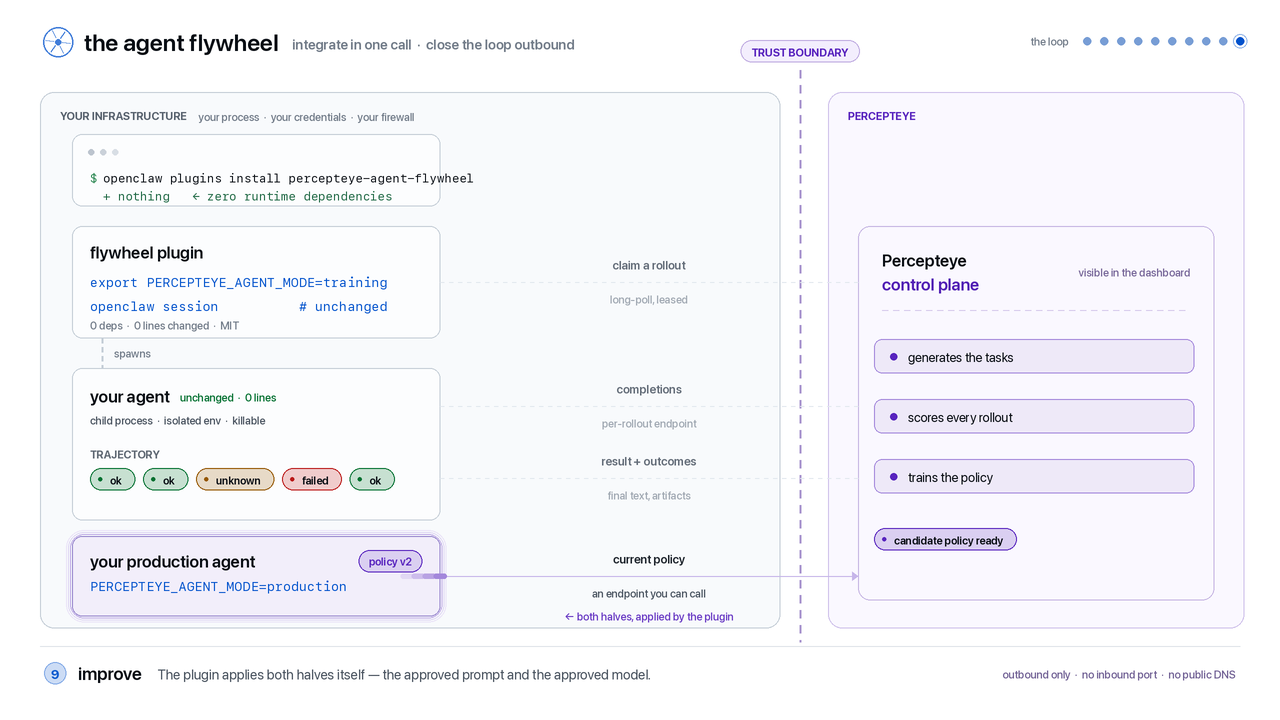
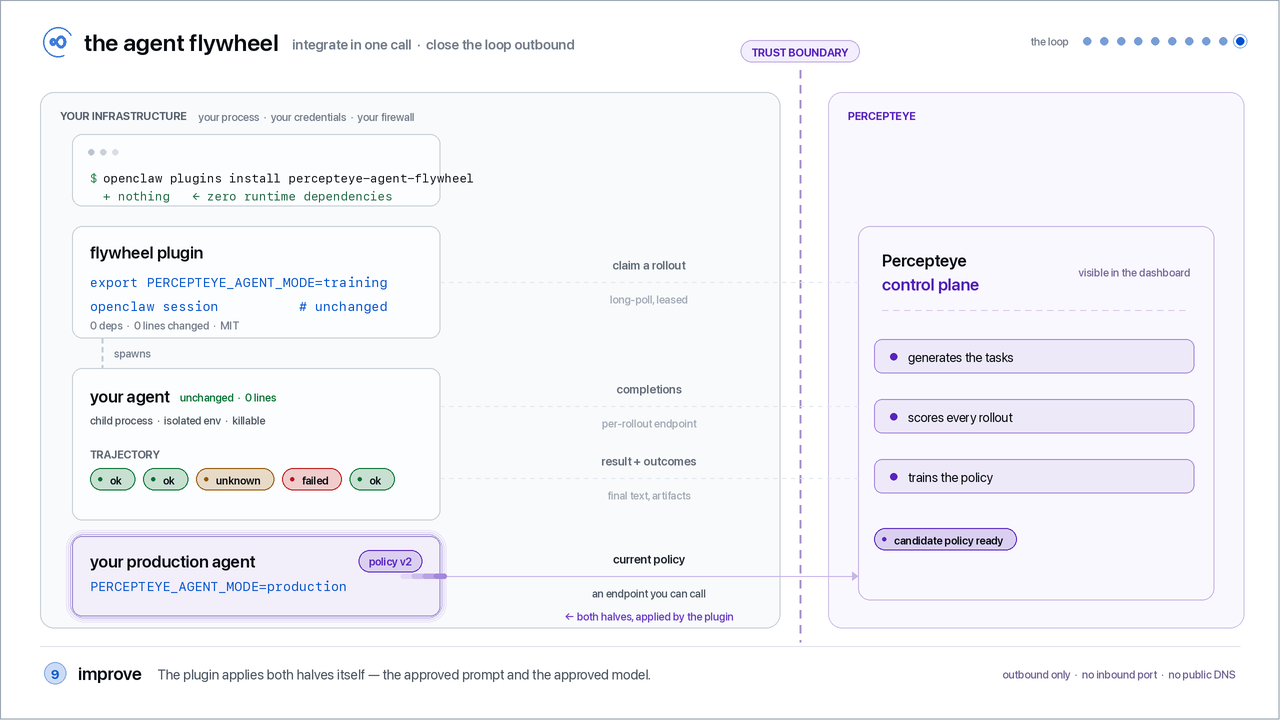
One flywheel in the figures too, a border, and plainer words
THE CARTWHEEL CAME BACK. The figures drew their own spoked-wheel logo beside
"the agent flywheel" while the README title carries the asymmetric infinity, so
the page showed two different marks and the figure quietly disowned the wordmark
above it. Both renderers now draw the SAME mark — the same Bernoulli lemniscate
with uniformly scaled lobes, small lobe first, inside the same gapped ring.

A BORDER. These sit inline on a white README page, and a white-grounded figure
with no edge reads as floating text rather than as a figure. Drawn on the
supersampled canvas before the resize so it lands as a crisp hairline rather
than a soft grey smear, and through a theme token so the dark theme gets an edge
that suits its own ground.

"CONTRIBUTES CAPACITY" IS GONE. It is the sort of phrase that is precise to
whoever wrote it and opaque to the developer reading it — and it had spread to
ten places across both packages, including the refusal a developer sees when
they typo the mode. Everywhere it now says "does training work: it claims
rollouts and runs them", which is the same fact in words that need no gloss.

The refusal text is byte-identical to the Node SDK's again — one switch, one
sentence, in whichever package the customer installed.

749 tests, 0 skips; ruff clean.

Changed region(s): [[0.0, 0.9778, 1.0, 1.0], [0.0312, 0.0306, 0.0625, 0.0917]]

diff --git a/docs/assets/render_flywheel_loop.py b/docs/assets/render_flywheel_loop.py
@@ -114,7 +114,7 @@ _DARK = dict(
     CODE=(126, 176, 226), OKTXT=(94, 160, 110), LBL=(102, 110, 122),
     CHIP_ON=(214, 196, 248),
     PF_FILL=(26, 24, 40), PF_EDGE=(96, 76, 132), PF_TITLE=(186, 156, 240),
-    PF_RULE=(66, 56, 88), PF_SUB=(108, 92, 140),
+    PF_RULE=(66, 56, 88), PF_SUB=(108, 92, 140), FRAME_EDGE=(56, 63, 72),
     PF_ROW=(56, 50, 74), PF_ROWTX=(96, 92, 112), PF_CHIPBG=(26, 24, 40),
     RAIL=(60, 66, 75), FOOT=(128, 110, 160), HRULE=(26, 31, 38),
 )
@@ -134,7 +134,7 @@ _LIGHT = dict(
     CODE=(0, 82, 204), OKTXT=(2, 112, 48), LBL=(96, 105, 116),
     CHIP_ON=(88, 36, 190),
     PF_FILL=(250, 248, 255), PF_EDGE=(196, 180, 226), PF_TITLE=(80, 30, 180),
-    PF_RULE=(214, 202, 236), PF_SUB=(118, 102, 152),
+    PF_RULE=(214, 202, 236), PF_SUB=(118, 102, 152), FRAME_EDGE=(154, 165, 177),
     PF_ROW=(226, 216, 244), PF_ROWTX=(112, 120, 132), PF_CHIPBG=(246, 242, 254),
     RAIL=(176, 184, 194), FOOT=(112, 96, 148), HRULE=(222, 227, 233),
 )
@@ -175,6 +175,7 @@ PF_EDGE = _T['PF_EDGE']
 PF_TITLE = _T['PF_TITLE']
 PF_RULE = _T['PF_RULE']
 PF_SUB = _T['PF_SUB']
+FRAME_EDGE = _T['FRAME_EDGE']
 PF_ROW = _T['PF_ROW']
 PF_ROWTX = _T['PF_ROWTX']
 PF_CHIPBG = _T['PF_CHIPBG']
@@ -380,16 +381,35 @@ def pill(d, x, y, label, f, color, on: float, base=CARD, pad=11, hgt=22, dot=Tru
 
 
 def flywheel_icon(d, cx, cy, r, angle, color, spokes=6):
-    d.ellipse(S((cx - r, cy - r, cx + r, cy + r)), outline=color,
-              width=max(1, int(1.6 * SS)))
-    for i in range(spokes):
-        a = angle + i * (2 * math.pi / spokes)
-        d.line([S(cx + math.cos(a) * r * 0.30), S(cy + math.sin(a) * r * 0.30),
-                S(cx + math.cos(a) * r * 0.82), S(cy + math.sin(a) * r * 0.82)],
-               fill=color, width=max(1, int(1.4 * SS)))
-    d.ellipse(S((cx - r * 0.20, cy - r * 0.20, cx + r * 0.20, cy + r * 0.20)),
-              fill=color)
+    """THE PRODUCT'S MARK, and it must be the SAME mark as the README title.
 
+    This used to be a spoked cartwheel. The title beside it carries an
+    asymmetric infinity inside a turning wheel, so the page showed two different
+    flywheels and the figure quietly disowned the wordmark above it.
+
+    Same geometry as docs/assets/render_spinner.py: a Bernoulli lemniscate whose
+    lobes are UNIFORMLY scaled, small lobe first. Uniform per-lobe scaling is
+    what keeps the crossing tangents intact -- two ovals rotated about a shared
+    point cannot make an infinity, they make two kissing circles. The `spokes`
+    argument is kept so the call sites do not change; it is unused.
+    """
+    ratio, yscale = 0.52, 1.60
+    # the wheel: an arc with a gap, so rotation is visible at all
+    deg = math.degrees(angle) % 360.0
+    d.arc(S((cx - r, cy - r, cx + r, cy + r)), deg, deg + 268.0,
+          fill=color, width=max(1, int(1.7 * SS)))
+    # the loop, drawn as overlapping discs -- round joins for free at this size
+    a = r * 0.60
+    off = (1.0 - ratio) / 2.0 * a
+    rr = r * 0.085
+    for i in range(180):
+        s = i / 180.0
+        tt = s * 2.0 * math.pi + math.pi          # start on the SMALL lobe
+        dd = 1.0 + math.sin(tt) ** 2
+        x, y = math.cos(tt) / dd, math.sin(tt) * math.cos(tt) / dd
+        k = 1.0 if x >= 0 else ratio
+        px, py = cx + x * k * a - off, cy + y * k * yscale * a
+        d.ellipse(S((px - rr, py - rr, px + rr, py + rr)), fill=color)
 
 def glow(d, box, color, a, radius=12, rings=3):
     """A soft focus ring around a card. Cheap, and reads as attention."""
@@ -790,6 +810,13 @@ def draw_frame(i: int) -> Image.Image:
     text(d, (cnx + 34 + tw(verb, F_CAP) + 16, 674), cap, F_CAPSUB,
          mix(BG, MUTED, seam * intro), anchor="lm")
 
+    # A BORDER, because these sit inline on a white README page and a
+    # white-grounded figure with no edge reads as floating text rather than as a
+    # figure. Drawn on the SUPERSAMPLED canvas before the resize so it lands as
+    # a crisp hairline instead of a soft grey smear, and in a token so the dark
+    # theme gets an edge that suits its own ground.
+    d.rectangle(S((0, 0, W - 1, H - 1)), outline=FRAME_EDGE,
+                width=max(1, int(1.0 * SS)))
     return img.resize((W, H), Image.LANCZOS)
 
 

diff --git a/docs/assets/render_overview.py b/docs/assets/render_overview.py
@@ -122,6 +122,7 @@ _DARK = dict(
     PF_TITLE=(186, 156, 240),
     PF_RULE=(66, 56, 88),
     PF_SUB=(108, 92, 140),
+    FRAME_EDGE=(56, 63, 72),
     PF_ROW=(56, 50, 74),
     PF_ROWTX=(96, 92, 112),
     CHIP_ON=(214, 196, 248),
@@ -162,6 +163,7 @@ _LIGHT = dict(
     PF_TITLE=(80, 30, 180),
     PF_RULE=(214, 202, 236),
     PF_SUB=(118, 102, 152),
+    FRAME_EDGE=(154, 165, 177),
     PF_ROW=(226, 216, 244),
     PF_ROWTX=(112, 120, 132),
     CHIP_ON=(88, 36, 190),
@@ -210,6 +212,7 @@ PF_EDGE = _T['PF_EDGE']
 PF_TITLE = _T['PF_TITLE']
 PF_RULE = _T['PF_RULE']
 PF_SUB = _T['PF_SUB']
+FRAME_EDGE = _T['FRAME_EDGE']
 PF_ROW = _T['PF_ROW']
 PF_ROWTX = _T['PF_ROWTX']
 CHIP_ON = _T['CHIP_ON']
@@ -388,16 +391,36 @@ def packet(d, x, y, c, w=18, h=7, a=1.0, trail=3):
 
 
 def wheel(d, cx, cy, r, ang, c, spokes=6):
-    d.ellipse(S((cx - r, cy - r, cx + r, cy + r)), outline=c, width=max(1, int(1.6 * SS)))
-    for i in range(spokes):
-        a = ang + i * (2 * math.pi / spokes)
-        d.line([S(cx + math.cos(a) * r * .30), S(cy + math.sin(a) * r * .30),
-                S(cx + math.cos(a) * r * .82), S(cy + math.sin(a) * r * .82)],
-               fill=c, width=max(1, int(1.4 * SS)))
-    d.ellipse(S((cx - r * .2, cy - r * .2, cx + r * .2, cy + r * .2)), fill=c)
+    """THE PRODUCT'S MARK, and it must be the SAME mark as the README title.
 
+    This used to be a spoked cartwheel. The title beside it carries an
+    asymmetric infinity inside a turning wheel, so the page showed two different
+    flywheels and the figure quietly disowned the wordmark above it.
 
-# ── the frame ────────────────────────────────────────────────────────────────
+    Same geometry as docs/assets/render_spinner.py: a Bernoulli lemniscate whose
+    lobes are UNIFORMLY scaled, small lobe first. Uniform per-lobe scaling is
+    what keeps the crossing tangents intact -- two ovals rotated about a shared
+    point cannot make an infinity, they make two kissing circles. The `spokes`
+    argument is kept so the call sites do not change; it is unused.
+    """
+    ratio, yscale = 0.52, 1.60
+    # the wheel: an arc with a gap, so rotation is visible at all
+    deg = math.degrees(ang) % 360.0
+    d.arc(S((cx - r, cy - r, cx + r, cy + r)), deg, deg + 268.0,
+          fill=c, width=max(1, int(1.7 * SS)))
+    # the loop, drawn as overlapping discs -- round joins for free at this size
+    a = r * 0.60
+    off = (1.0 - ratio) / 2.0 * a
+    rr = r * 0.085
+    for i in range(180):
+        s = i / 180.0
+        tt = s * 2.0 * math.pi + math.pi          # start on the SMALL lobe
+        dd = 1.0 + math.sin(tt) ** 2
+        x, y = math.cos(tt) / dd, math.sin(tt) * math.cos(tt) / dd
+        k = 1.0 if x >= 0 else ratio
+        px, py = cx + x * k * a - off, cy + y * k * yscale * a
+        d.ellipse(S((px - rr, py - rr, px + rr, py + rr)), fill=c)
+
 def draw_frame(i):
     t = i / FPS
     img = Image.new("RGB", (W * SS, H * SS), BG)
@@ -621,6 +644,13 @@ def draw_frame(i):
         text(d, (W - 44, 658), "outbound only  ·  no inbound port  ·  no GPU",
              F_TINY, fade(FOOT, a_bd), anchor="rm")
 
+    # A BORDER, because these sit inline on a white README page and a
+    # white-grounded figure with no edge reads as floating text rather than as a
+    # figure. Drawn on the SUPERSAMPLED canvas before the resize so it lands as
+    # a crisp hairline instead of a soft grey smear, and in a token so the dark
+    # theme gets an edge that suits its own ground.
+    d.rectangle(S((0, 0, W - 1, H - 1)), outline=FRAME_EDGE,
+                width=max(1, int(1.0 * SS)))
     return img.resize((W, H), Image.LANCZOS)
 
 

diff --git a/tests/test_attach_production_capture.py b/tests/test_attach_production_capture.py
@@ -1,6 +1,6 @@
 """``attach()`` — capture in the process that serves users.
 
-``serve()`` contributes capacity. ``attach()`` contributes evidence, from turns the
+``serve()`` does training work. ``attach()`` records what your agent already did, from turns the
 customer's agent is already serving. Same adapters, same tri-state, same
 trajectory file — and, critically, NO rerouting: pointing production traffic at
 a new endpoint is ``apply_current_policy``'s job and the customer's decision.

diff --git a/src/percepteye_agent_flywheel/__init__.py b/src/percepteye_agent_flywheel/__init__.py
@@ -202,7 +202,7 @@ def _mode_from(raw: Any, *, source: str) -> str:
     if key not in _MODE_ALIASES:
         raise ConfigurationError(
             f"{source}{raw!r} is not a mode. Use 'training' (this process "
-            f"contributes capacity: it claims rollouts and runs them) or "
+            f"does training work: it claims rollouts and runs them) or "
             f"'production' (it does not). Recognised spellings: "
             f"{', '.join(sorted(_MODE_ALIASES))}."
         )

diff --git a/website/docs/production.md b/website/docs/production.md
@@ -1,6 +1,6 @@
 # Production
 
-Your production agent is a **different process** from the one that contributes capacity. [`serve()`](quickstart.md) claims rollouts and runs them in child processes. This page is about the process that serves your users, and it does three things: picks up the model training produced, picks up the prompt training produced, and — optionally — contributes evidence from the turns it is already serving.
+Your production agent is a **different process** from the one that does training work. [`serve()`](quickstart.md) claims rollouts and runs them in child processes. This page is about the process that serves your users, and it does three things: picks up the model training produced, picks up the prompt training produced, and — optionally — contributes evidence from the turns it is already serving.
 
 None of it requires a redeploy of your agent's code, and none of it opens an inbound port.
 
@@ -175,7 +175,7 @@ The contract is a **pair**: this prompt was approved against that checkpoint, an
 
 ## `attach()` — evidence from live turns
 
-`serve()` contributes capacity. `attach()` contributes evidence, from turns you are already serving — same [adapters](python.md), same tri-state [outcomes](outcomes.md), same trajectory format, same absence contract, scoped around a live user turn instead of a claimed rollout.
+`serve()` does training work. `attach()` records what your agent already did, from turns you are already serving — same [adapters](python.md), same tri-state [outcomes](outcomes.md), same trajectory format, same absence contract, scoped around a live user turn instead of a claimed rollout.
 
 ```python
 px = fw.attach(agent_id="support-agent", trajectory_root="/var/lib/percepteye")
@@ -222,7 +222,7 @@ They are separate calls because the answer does not exist yet when the turn open
 
 `record_tool_call()` works inside a turn exactly as it does inside a rollout. With the `otel` extra installed, a turn's span carries `percepteye.turn.id` rather than `percepteye.rollout.id`, so your own telemetry can tell the two apart too.
 
-**`PERCEPTEYE_AGENT_MODE` does not gate `attach()`.** That switch gates `serve()`, the surface that contributes capacity. `attach()` *is* the production surface, and gating it on the same variable would mean the correct setting for a production agent was `PERCEPTEYE_AGENT_MODE=training`. To stop capture, don't call `attach()`, or pass `register=False` to keep it entirely local. See [Configuration](configuration.md).
+**`PERCEPTEYE_AGENT_MODE` does not gate `attach()`.** That switch gates `serve()`, the call that does training work. `attach()` *is* the production surface, and gating it on the same variable would mean the correct setting for a production agent was `PERCEPTEYE_AGENT_MODE=training`. To stop capture, don't call `attach()`, or pass `register=False` to keep it entirely local. See [Configuration](configuration.md).
 
 **What it ships, and when.** `flywheel/1` gained `POST /turns`, so captured turns
 are uploaded — subject to one gate and one cadence.

diff --git a/README.md b/README.md
@@ -104,7 +104,7 @@ Beat ⓪ is why you never write a task list. Tasks come from **the tool surface 
 
 ## 🎚 Two modes, one image
 
-One variable decides whether a deployment contributes capacity. The same container does either, with no code edit.
+One variable decides whether a deployment does training work. The same container does either, with no code edit.
 
 ```bash
 PERCEPTEYE_AGENT_MODE=training      # the default when unset
@@ -121,7 +121,7 @@ PERCEPTEYE_AGENT_MODE=production
 `production` restores the endpoint value *you* had, not a default we picked — read once, before we ever write to your config, and kept across upgrades. An unrecognised value **raises** rather than guessing: a typo that silently picked `training` would keep spending your credentials with nothing printed. (`train`, `rollout`, `fine-tuning` also mean contribute; `prod` and `serving` mean don't. `mode=` in code beats the variable, and the printed line says when that happened.)
 
 > [!IMPORTANT]
-> The switch gates **`serve()`**, the surface that contributes capacity. It does not gate `attach()` — that *is* the production surface. Gating both would mean the correct setting for a production agent was `training`.
+> The switch gates **`serve()`** — the call that does training work. It does not gate `attach()` — that *is* the production surface. Gating both would mean the correct setting for a production agent was `training`.
 
 **Contribute nothing, still get the trained model.** No `serve()`, no `attach()`, no registration:
 

diff --git a/website/docs/quickstart.md b/website/docs/quickstart.md
@@ -148,7 +148,7 @@ The first is informational only. A `serve()` rollout samples through the per-rol
 
     In `production`, `serve()` returns **before opening any connection**, so that deployment needs no control-plane URL and no key — turning training off never requires being configured for it. It returns rather than raising, because a switch that crashes the service it was meant to quiet is not a switch, and it prints the line above, because a silent no-op is the failure mode this package refuses everywhere else. An unrecognized value raises instead of guessing. Full table of accepted spellings and precedence in [configuration](configuration.md).
 
-The switch gates `serve()` — the surface that contributes capacity. It does not gate `attach()`, which is the production capture surface.
+The switch gates `serve()` — the call that does training work. It does not gate `attach()`, which is the production capture surface.
 
 ## Next
 

diff --git a/website/docs/configuration.md b/website/docs/configuration.md
@@ -4,7 +4,7 @@ Every knob is a keyword argument on `serve()` or one of seven environment variab
 
 ## The mode switch
 
-`PERCEPTEYE_AGENT_MODE` decides whether this process contributes capacity. It is the one knob that turns the flywheel off.
+`PERCEPTEYE_AGENT_MODE` decides whether this process does training work. It is the one knob that turns the flywheel off.
 
 ```bash
 PERCEPTEYE_AGENT_MODE=training      # claim rollouts and run them (the default when unset)
@@ -43,7 +43,7 @@ Case-insensitive, surrounding whitespace stripped.
 
 ```text
 ConfigurationError: PERCEPTEYE_AGENT_MODE='staging' is not a mode. Use 'training'
-(this process contributes capacity: it claims rollouts and runs them) or 'production'
+(this process does training work: it claims rollouts and runs them) or 'production'
 (it does not). Recognised spellings: fine-tuning, finetuning, improving, prod,
 production, rollout, rollouts, serving, train, training.
 ```
